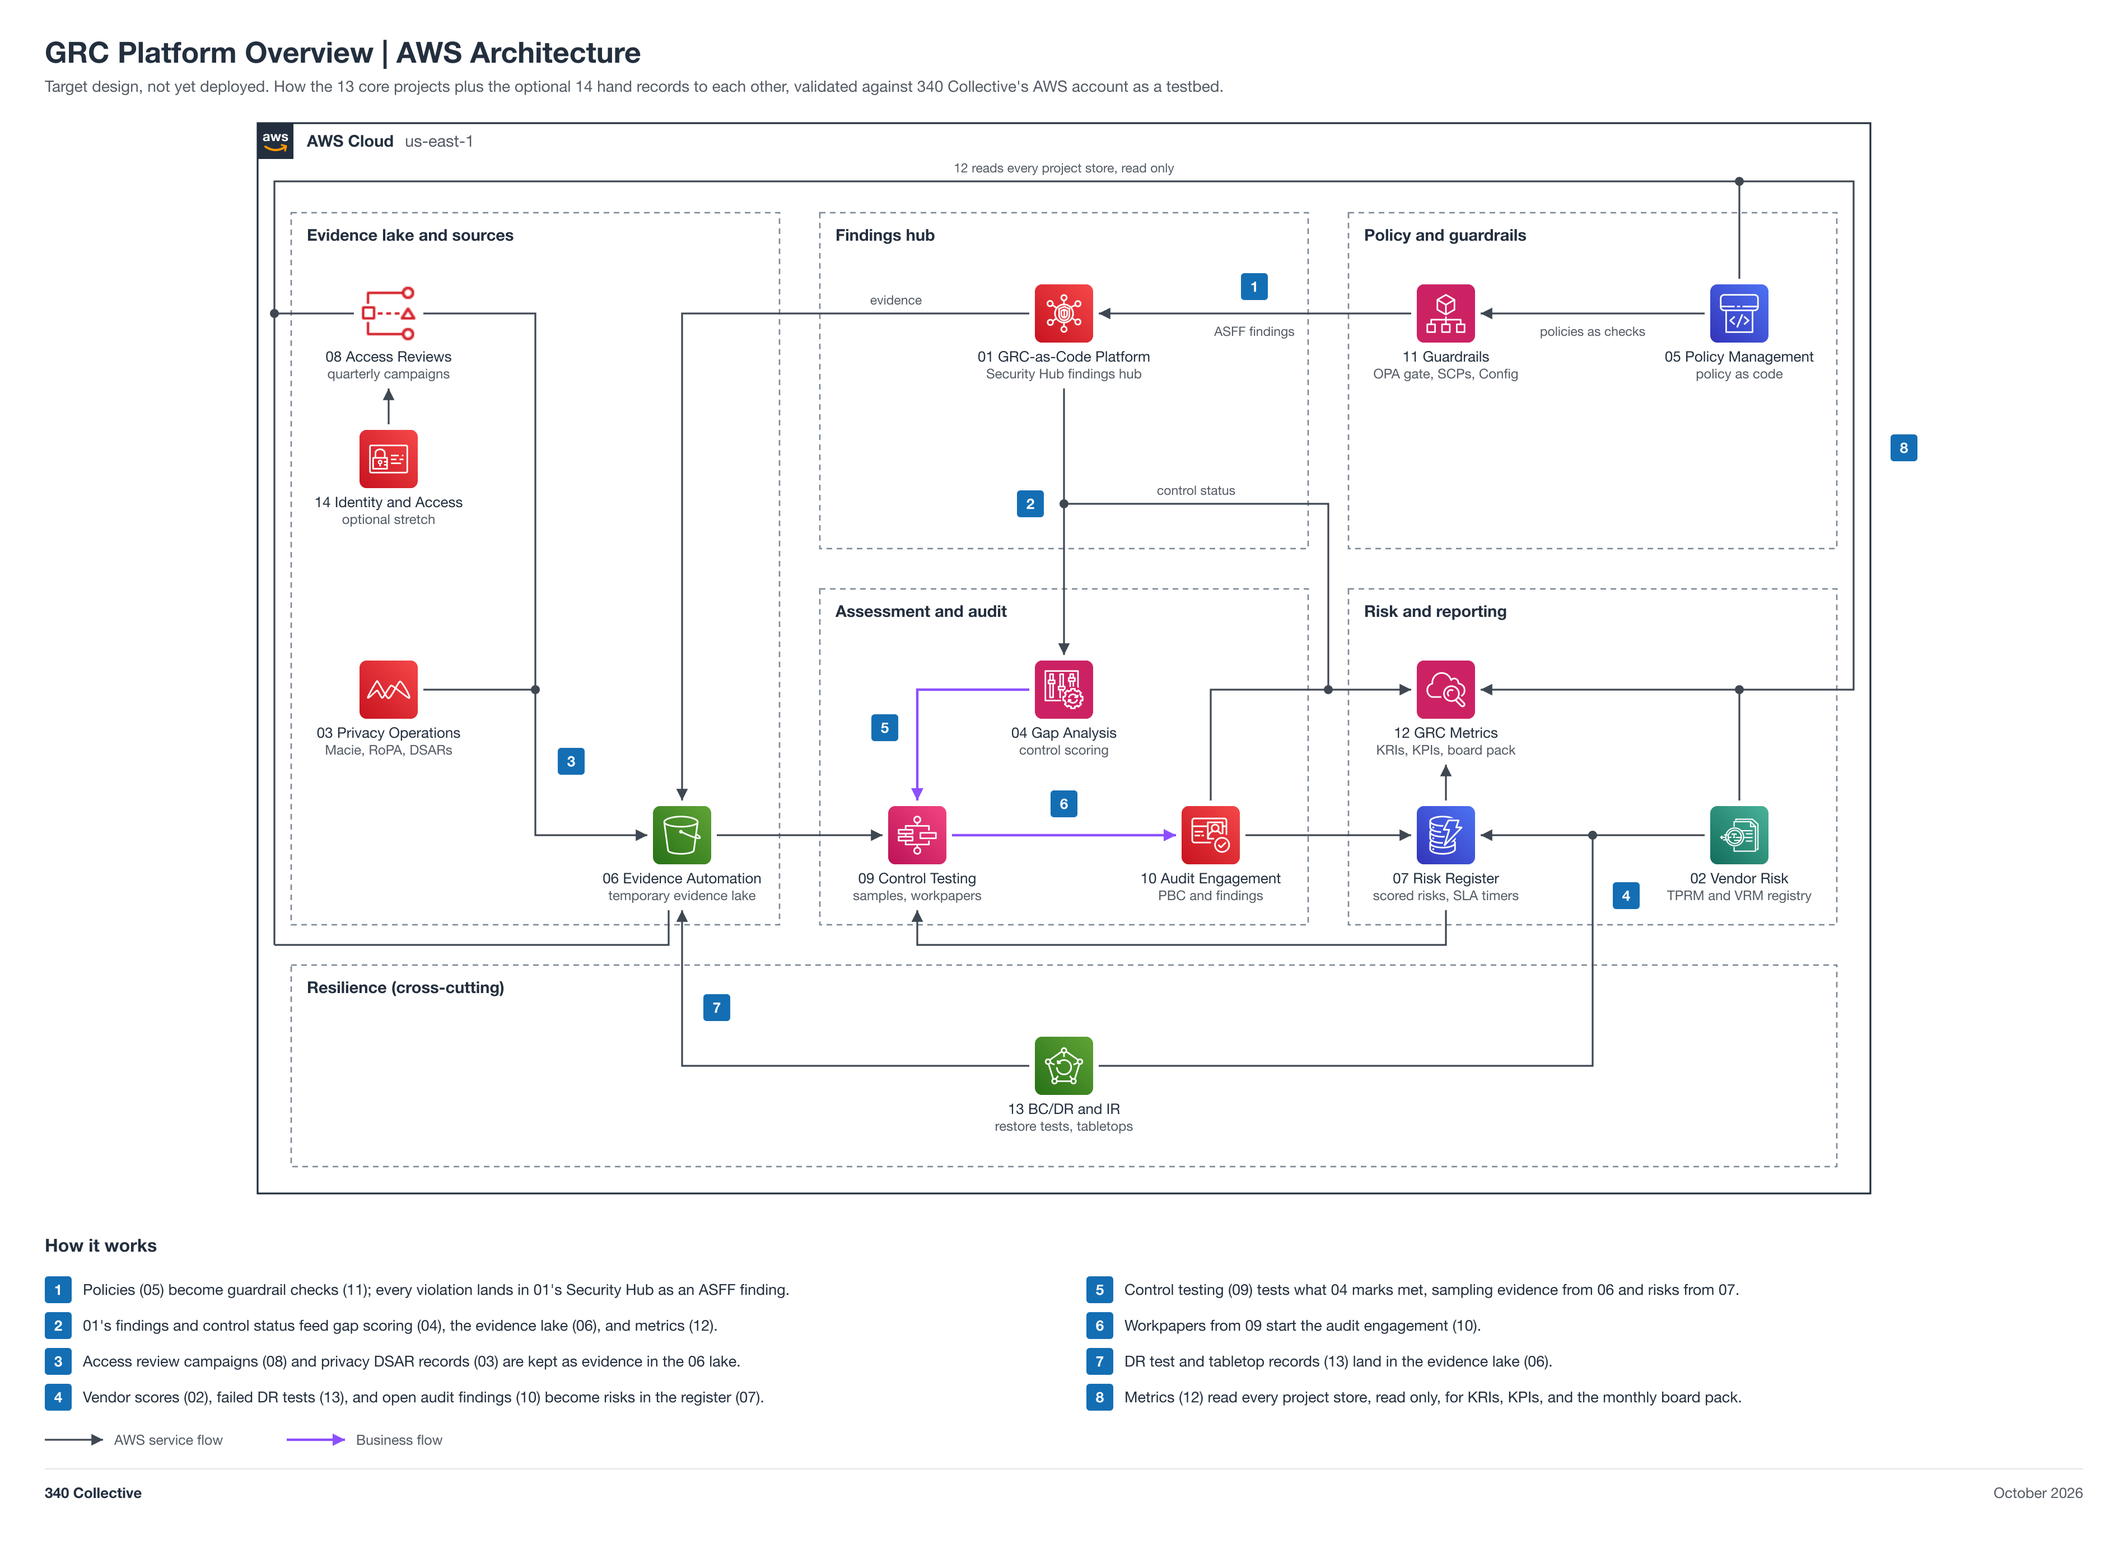
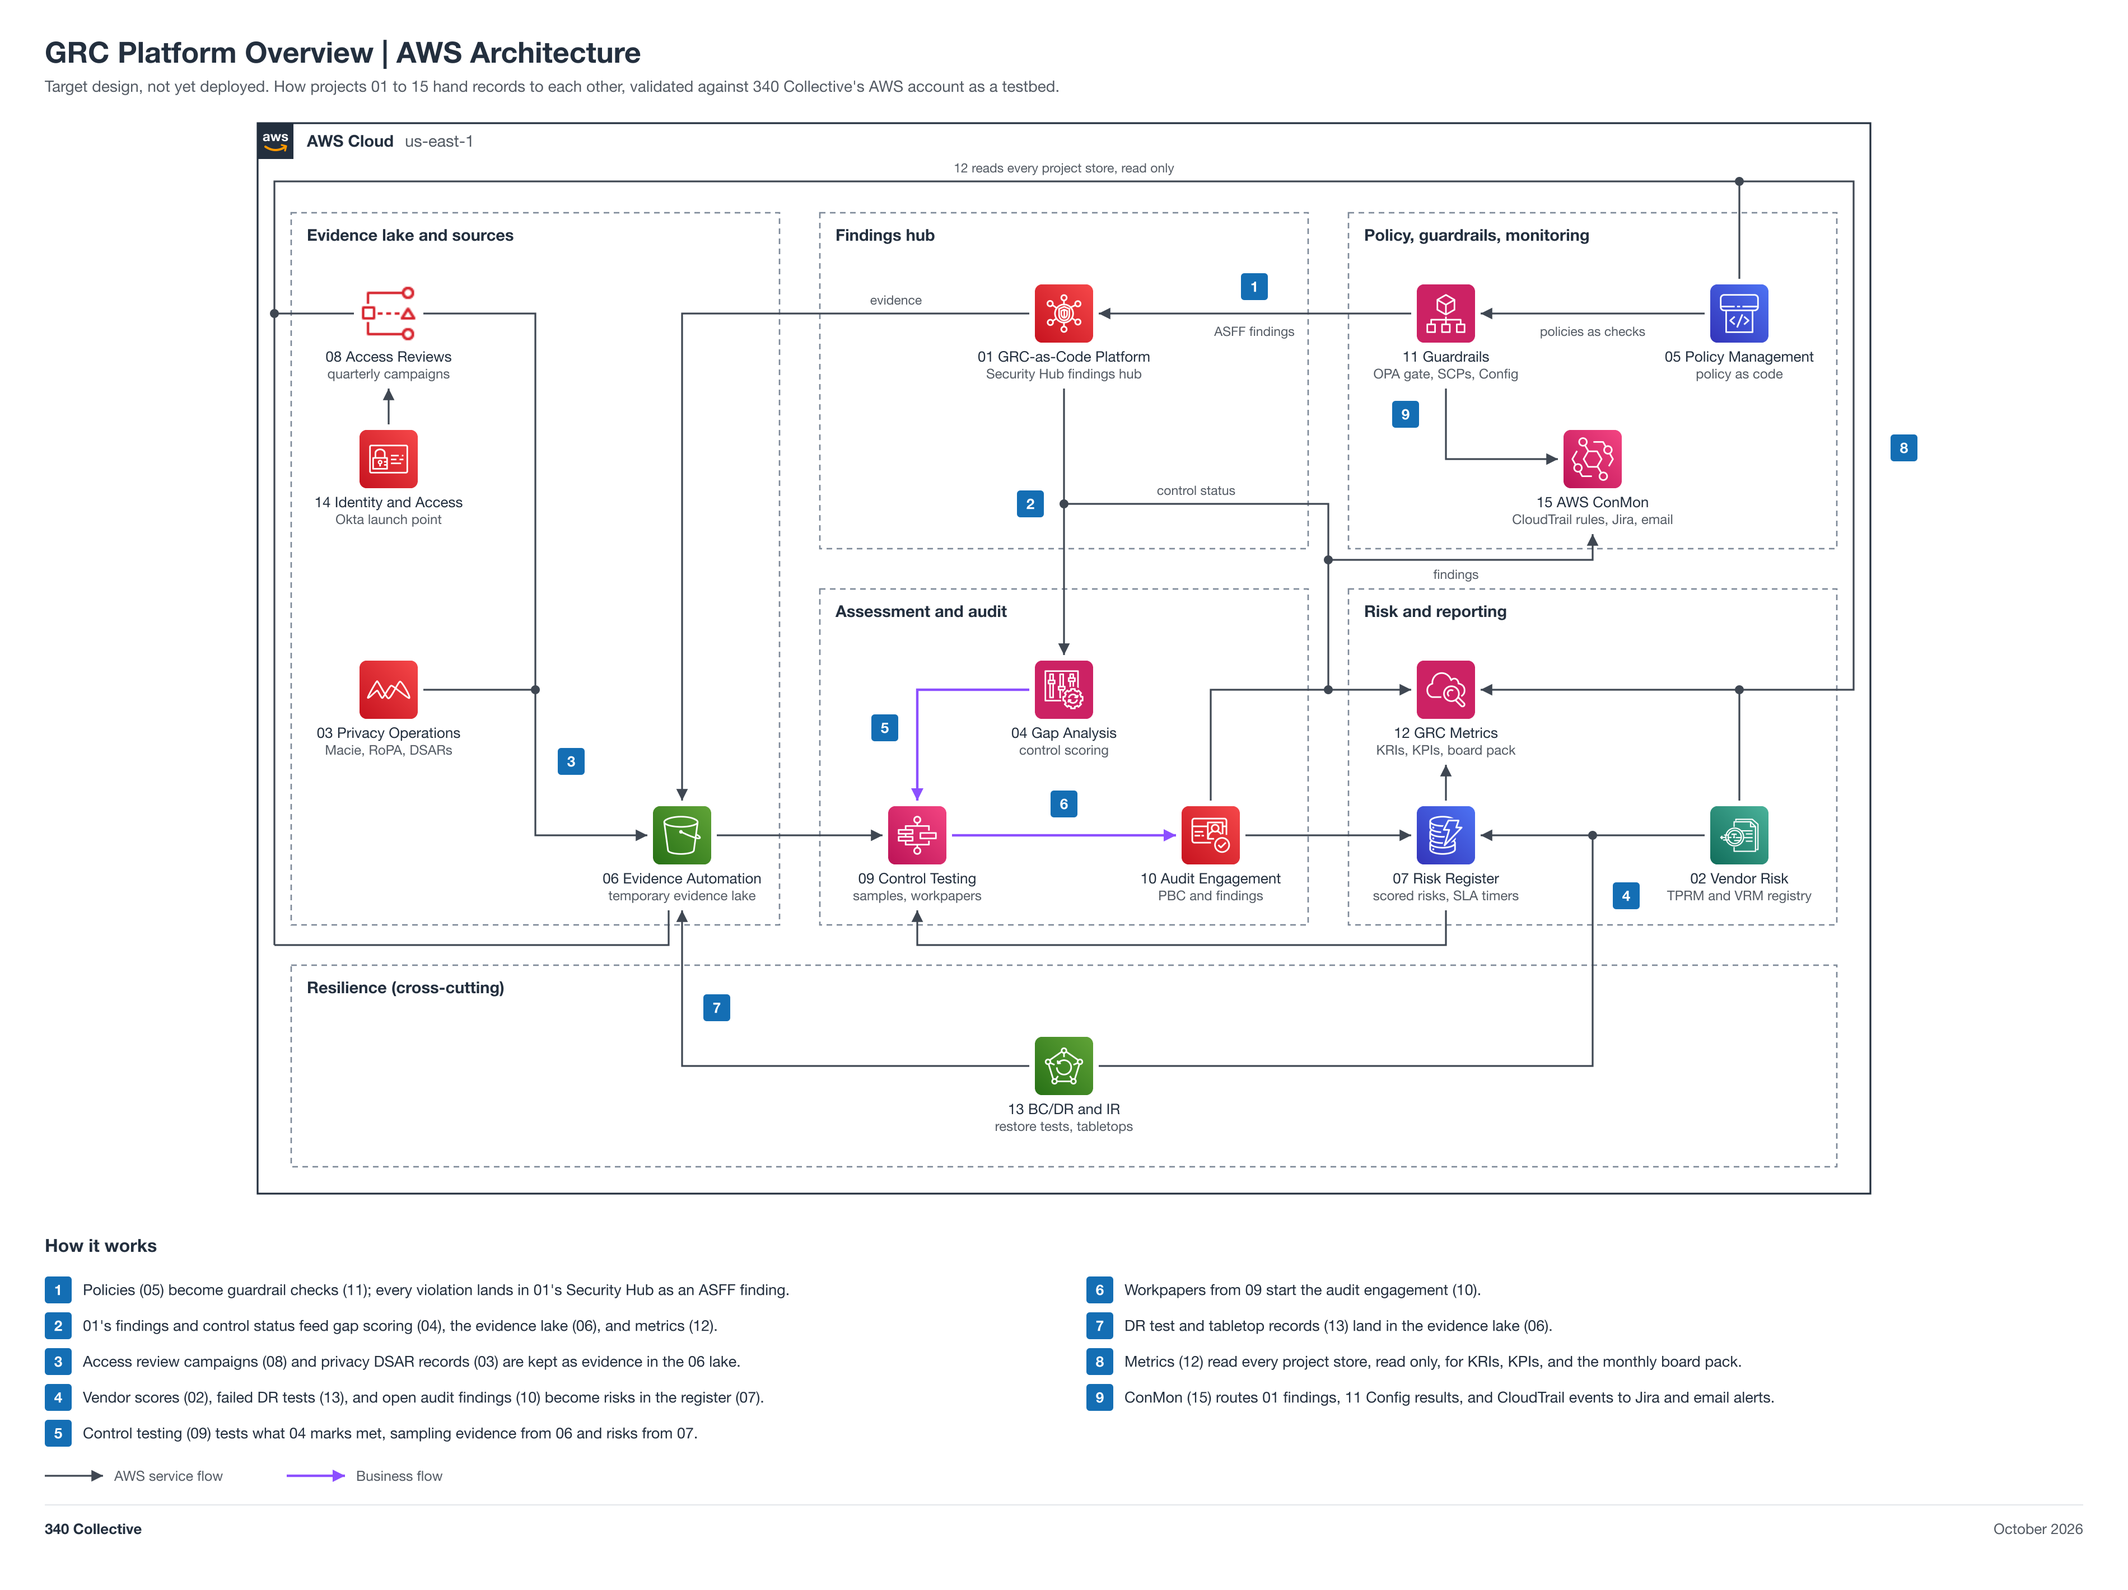
docs: add project 15 to the platform overview and drop stale 14 stretch wording

diff --git a/engineering/Faris-00-Platform-Overview/diagram/build_diagram.py b/engineering/Faris-00-Platform-Overview/diagram/build_diagram.py
@@ -4,7 +4,7 @@
 Look: one AWS Cloud boundary, an aligned grid of unfilled dashed groups, official AWS
 icons on a shared slot grid, right-angle lines with no crossings unless unavoidable, and
 numbered steps explained by a plain-English legend. As shipped it draws a complete worked
-example (the GRC platform overview: how the 13 projects connect). Replace the EDIT blocks to draw your own.
+example (the GRC platform overview: how projects 01 to 15 connect). Replace the EDIT blocks to draw your own.
 
 ============================================================================================
 1. REQUIREMENTS
@@ -174,9 +174,9 @@ KINDS = {  # stroke, width, dash, arrowhead marker, legend label
 SENSITIVE_EXTRA = []
 
 # ---------------- EDIT: canvas text ----------------
-W, H = 1900, 1380
+W, H = 1900, 1420
 TITLE = "GRC Platform Overview | AWS Architecture"
-SUBTITLE = ("Target design, not yet deployed. How the 13 core projects plus the optional 14 hand records to each other, "
+SUBTITLE = ("Target design, not yet deployed. How projects 01 to 15 hand records to each other, "
             "validated against 340 Collective's AWS account as a testbed.")
 REGION = "us-east-1"
 FOOTER_LEFT, FOOTER_RIGHT = "340 Collective", "October 2026"
@@ -311,7 +311,7 @@ BAND = (862, 1042)                                    # resilience band (y)
 GROUPS = [
     (COLS[0][0], ROWS[0][0], COLS[0][1], ROWS[1][1], "Evidence lake and sources"),
     (COLS[1][0], ROWS[0][0], COLS[1][1], ROWS[0][1], "Findings hub"),
-    (COLS[2][0], ROWS[0][0], COLS[2][1], ROWS[0][1], "Policy and guardrails"),
+    (COLS[2][0], ROWS[0][0], COLS[2][1], ROWS[0][1], "Policy, guardrails, monitoring"),
     (COLS[1][0], ROWS[1][0], COLS[1][1], ROWS[1][1], "Assessment and audit"),
     (COLS[2][0], ROWS[1][0], COLS[2][1], ROWS[1][1], "Risk and reporting"),
     (COLS[0][0], BAND[0], COLS[2][1], BAND[1], "Resilience (cross-cutting)"),
@@ -327,7 +327,7 @@ S3 = "aws/storage/simple-storage-service-s3.png"
 node("p08", "aws/security/identity-and-access-management-iam-access-analyzer.png",
      SL[0][0], A0, "08 Access Reviews", "quarterly campaigns")
 node("p14", "aws/security/identity-and-access-management-iam.png", SL[0][0], B0, "14 Identity and Access",
-     "optional stretch")
+     "Okta launch point")
 node("p03", "aws/security/macie.png", SL[0][0], A1, "03 Privacy Operations", "Macie, RoPA, DSARs")
 node("p06", S3, SL[0][2], B1, "06 Evidence Automation", "temporary evidence lake")
 node("p01", "aws/security/security-hub.png", SL[1][1], A0, "01 GRC-as-Code Platform",
@@ -345,6 +345,8 @@ node("p12", "aws/management/cloudwatch.png", SL[2][0], A1, "12 GRC Metrics",
 node("p07", "aws/database/dynamodb.png", SL[2][0], B1, "07 Risk Register",
      "scored risks, SLA timers")
 node("p02", "aws/ml/textract.png", SL[2][2], B1, "02 Vendor Risk", "TPRM and VRM registry")
+node("p15", "aws/integration/eventbridge.png", SL[2][1], B0, "15 AWS ConMon",
+     "CloudTrail rules, Jira, email")
 node("p13", "aws/storage/backup.png", SL[1][1], A2, "13 BC/DR and IR", "restore tests, tabletops")
 
 # ---------------- EDIT: connections (kind: service, external, business) ----------------
@@ -415,7 +417,11 @@ trunk([P("p02", "t"), (SL[2][2], A1)], "p02", "bus12")
 path([(XLM, G12), (XLM, CH), (XRM, CH), (XRM, A1), P("p12", "r")], "bus12", "p12")
 
 path([P("p14", "t"), P("p08", "b")], "p14", "p08")
-for x, y in [J01, J12L, J07, J06, (XLM, A0), (SL[2][2], CH), (SL[2][2], A1)]:
+# continuous monitoring (15): 01 findings and 11 Config results feed the ConMon routing
+J15 = (GX12, 500)
+path([J15, (SL[2][1], 500), P("p15", "b")], "j15", "p15")
+path([P("p11", "b"), (SL[2][0], B0), P("p15", "l")], "p11", "p15")
+for x, y in [J01, J12L, J07, J06, J15, (XLM, A0), (SL[2][2], CH), (SL[2][2], A1)]:
     dot(x, y)
 
 
@@ -433,12 +439,14 @@ lbl(1422, 300, "policies as checks", "middle")
 lbl(1068, 442, "control status", "middle")
 lbl(800, 272, "evidence", "middle")
 lbl(950, 154, "12 reads every project store, read only", "middle")
+lbl(1300, 517, "findings", "middle")
 
 draw_nodes()
 
 # ---------------- EDIT: step badges (x, y, number), in a gutter beside their line ----------------
 for cx, cy, n in [(1120, 256, 1), (920, 450, 2), (510, 680, 3), (1452, 800, 4),
-                  (790, 650, 5), (950, 718, 6), (640, 900, 7), (1700, 400, 8)]:
+                  (790, 650, 5), (950, 718, 6), (640, 900, 7), (1700, 400, 8),
+                  (1255, 370, 9)]:
     badge(cx, cy, n)
 
 # ---------------- EDIT: legend steps, one short sentence each, same order as the badges ----------------
@@ -452,6 +460,7 @@ STEPS = [
     "Workpapers from 09 start the audit engagement (10).",
     "DR test and tabletop records (13) land in the evidence lake (06).",
     "Metrics (12) read every project store, read only, for KRIs, KPIs, and the monthly board pack.",
+    "ConMon (15) routes 01 findings, 11 Config results, and CloudTrail events to Jira and email alerts.",
 ]
 
 text(40, LY, "How it works", 16, 700, INK, "start")

diff --git a/engineering/Abdifatah-14-Identity-Access/diagram/build_diagram.py b/engineering/Abdifatah-14-Identity-Access/diagram/build_diagram.py
@@ -176,7 +176,7 @@ SENSITIVE_EXTRA = []  # account IDs are caught by the built-in 12-digit check
 # ---------------- EDIT: canvas text ----------------
 W, H = 1900, 1270
 TITLE = 'Identity and Access (Okta) | AWS Architecture'
-SUBTITLE = 'Optional stretch, target design, not yet deployed. Purple lines follow a sign-in from Okta through the browser plugin into each app.'
+SUBTITLE = 'Phase 1 build, target design, not yet deployed. Purple lines follow a sign-in from Okta through the browser plugin into each app.'
 REGION = "us-east-1"
 FOOTER_LEFT, FOOTER_RIGHT = "340 Collective", "October 2026"
 

diff --git a/engineering/Faris-00-Platform-Overview/README.md b/engineering/Faris-00-Platform-Overview/README.md
@@ -67,7 +67,7 @@ None directly. The overview shows how the projects that cover SOC 2, NIST, and I
 
 </details>
 
-A system-of-systems map of the 13 core projects in this repo, plus the optional 14 stretch. Each box is one project; each line is a record one project hands to another, traced to that project's own architecture doc or README. It shows how the set works as one GRC platform: policies become guardrails, guardrail and posture findings land in one Security Hub hub, evidence and risks collect in shared stores, assessment and audit read from those stores, and metrics read all of them.
+A system-of-systems map of projects 01 to 15 in this repo. Each box is one project; each line is a record one project hands to another, traced to that project's own architecture doc or README. It shows how the set works as one GRC platform: policies become guardrails, guardrail and posture findings land in one Security Hub hub, evidence and risks collect in shared stores, assessment and audit read from those stores, and metrics read all of them.
 
 Status: target design, not yet deployed. Like every project here, it is a reference architecture validated against 340 Collective's AWS account as a testbed.
 
@@ -81,7 +81,8 @@ Status: target design, not yet deployed. Like every project here, it is a refere
 - 07 is the shared risk register. 02 high tier vendors, 13 failed DR tests, and 10 open audit findings become risks.
 - 04, 09, and 10 are the assessment path: 09 tests the controls 04 marks met, samples from 06 and 07, and its workpapers start the 10 engagement.
 - 12 reads the stores of 01, 02, 05, 06, 07, 08, and 10, read only, for KRIs, KPIs, and the board pack.
-- 14 Identity and Access (Okta) (optional stretch) puts Okta in front of the [access model](../../shared/access-model/README.md)'s IAM users as a sign-in launch point, and its group and app-assignment export becomes 08's identity source. It is drawn beside 08 with one line into it.
+- 15 AWS ConMon routes 01's Security Hub findings, 11's Config results, and CloudTrail events to Jira remediation issues and email alerts, and posts its monthly KPIs to 12's GRC Metrics Jira issue (that last link is documented, not drawn). Its design is in [15 AWS ConMon](../Rasheed-15-AWS-ConMon/README.md).
+- 14 Identity and Access (Okta), a Phase 1 build, puts Okta in front of the [access model](../../shared/access-model/README.md)'s IAM users as a sign-in launch point, and its group and app-assignment export becomes 08's identity source. It is drawn beside 08 with one line into it.
 
 ## Also documented, not drawn
 

diff --git a/engineering/Abdifatah-14-Identity-Access/Identity-Access-Architecture.md b/engineering/Abdifatah-14-Identity-Access/Identity-Access-Architecture.md
@@ -2,9 +2,9 @@
 
 ## Purpose
 
-Give the GRC team one place to start work. People sign in to an Okta dashboard with their personal email and Okta Verify. From there, the Okta Browser Plugin fills the username and password for the AWS console, GitHub, and Jira through Secure Web Authentication (SWA) apps, and each app's own MFA still applies. There is no single sign-on and no SAML federation into AWS, by design. AWS access stays the IAM users and groups from the [access model](../../shared/access-model/README.md). Two Okta Workflows handle joiners and leavers, and the Okta group and app-assignment export becomes the identity source for [08 Access Reviews](../Abdifatah-08-Access-Reviews/README.md). This is an optional stretch: about 2 weeks, 0 dollars. The minimum dependency is 01 and the access model; the recommended timing is after 01, 11, 06, and 07 are moving and before the next 08 review. Skip it if nobody wants it. Status: target design, not yet deployed.
+Give the GRC team one place to start work. People sign in to an Okta dashboard with their personal email and Okta Verify. From there, the Okta Browser Plugin fills the username and password for the AWS console, GitHub, and Jira through Secure Web Authentication (SWA) apps, and each app's own MFA still applies. There is no single sign-on and no SAML federation into AWS, by design. AWS access stays the IAM users and groups from the [access model](../../shared/access-model/README.md). Two Okta Workflows handle joiners and leavers, and the Okta group and app-assignment export becomes the identity source for [08 Access Reviews](../Abdifatah-08-Access-Reviews/README.md). This is a Phase 1 build: about 2 weeks, 0 dollars. It depends on the access model's IAM users, and its export is ready before the 08 review in Phase 2. Status: target design, not yet deployed.
 
-Owner: IAM / Identity Engineer (to be onboarded). Validator: the ISSO, since 14 feeds the 08 access reviews. Approver: the ISSM. The project waits until the IAM Engineer is onboarded and has access through the access model.
+Builder: the IAM / Identity Engineer, with access through the access model. Code review: the ISSE. Validator: the ISSO, since 14 feeds the 08 access reviews. Approver: the ISSM.
 
 ## Scope and frameworks
 

diff --git a/engineering/Abdifatah-14-Identity-Access/README.md b/engineering/Abdifatah-14-Identity-Access/README.md
@@ -69,11 +69,11 @@ SOC 2 CC6.1 to CC6.3, ISO 27001:2022 A.5.15 to A.5.18 and A.8.5, NIST CSF 2.0 PR
 
 Okta as the GRC team's single launch point. People sign in to an Okta Integrator Free Plan org with their personal email and Okta Verify, and the Okta Browser Plugin fills the username and password for the AWS console (the IAM users from the access model), GitHub, and Jira through Secure Web Authentication (SWA) apps. Each app's own MFA is still required. There is no single sign-on, by design, and that is recorded as a deviation. Two Okta Workflows handle joiners and leavers, and the Okta group and app-assignment export becomes the identity source for 08 Access Reviews. It supports SOC 2 CC6.1 to CC6.3, ISO 27001:2022 A.5.15 to A.5.18 and A.8.5, and NIST CSF 2.0 PR.AA.
 
-Status: target design, not yet deployed. Optional stretch: about 2 weeks, 0 dollars. The minimum dependency is 01 and the access model; the recommended timing is after 01, 11, 06, and 07 are moving and before the next 08 review. Skip it if nobody wants it.
+Status: target design, not yet deployed. Phase 1 build: about 2 weeks, 0 dollars. It depends on the access model's IAM users, and its export is ready before the 08 review in Phase 2.
 
-Owner: IAM / Identity Engineer (to be onboarded). Independent validator: Adam (ISSO), since 14 feeds his 08 access reviews. Approver: Faris (ISSM). The project waits until the IAM Engineer is onboarded and has access through the access model. Assignments can be swapped with ISSM agreement.
+Builder: Abdifatah (IAM / Identity Engineer), with access through the access model. Code review: Rasheed. Independent validator: Adam (ISSO), since 14 feeds his 08 access reviews. Approver: Faris (ISSM). Assignments can be swapped with ISSM agreement.
 
-Jira: GRC-15
+Jira: epic `GRC-<NN>` (a placeholder until Faris creates the epic)
 
 ![Identity and Access (Okta) architecture](diagram/identity-access-architecture.png)
 

diff --git a/README.md b/README.md
@@ -4,9 +4,9 @@ A small team builds a working governance, risk, and compliance (GRC) program on 
 
 Start here, then see the Contributing, Code of conduct, and Security tabs. Roles and approvals are in [GOVERNANCE.md](GOVERNANCE.md).
 
-![GRC platform overview: how projects 01 to 14 hand records to each other as one platform](engineering/Faris-00-Platform-Overview/diagram/grc-platform-overview.png)
+![GRC platform overview: how projects 01 to 15 hand records to each other as one platform](engineering/Faris-00-Platform-Overview/diagram/grc-platform-overview.png)
 
-The map above shows how projects 01 to 14 hand records to each other (target design, not yet deployed). Project 15, AWS continuous monitoring, is not drawn on it yet; its design is in [15 AWS ConMon](engineering/Rasheed-15-AWS-ConMon/README.md). Details and sources are in [00 Platform Overview](engineering/Faris-00-Platform-Overview/README.md).
+The map above shows how projects 01 to 15 hand records to each other (target design, not yet deployed), including 15 AWS continuous monitoring, which routes findings to Jira and email ([15 AWS ConMon](engineering/Rasheed-15-AWS-ConMon/README.md)). Details and sources are in [00 Platform Overview](engineering/Faris-00-Platform-Overview/README.md).
 
 ## 1. Purpose
 
